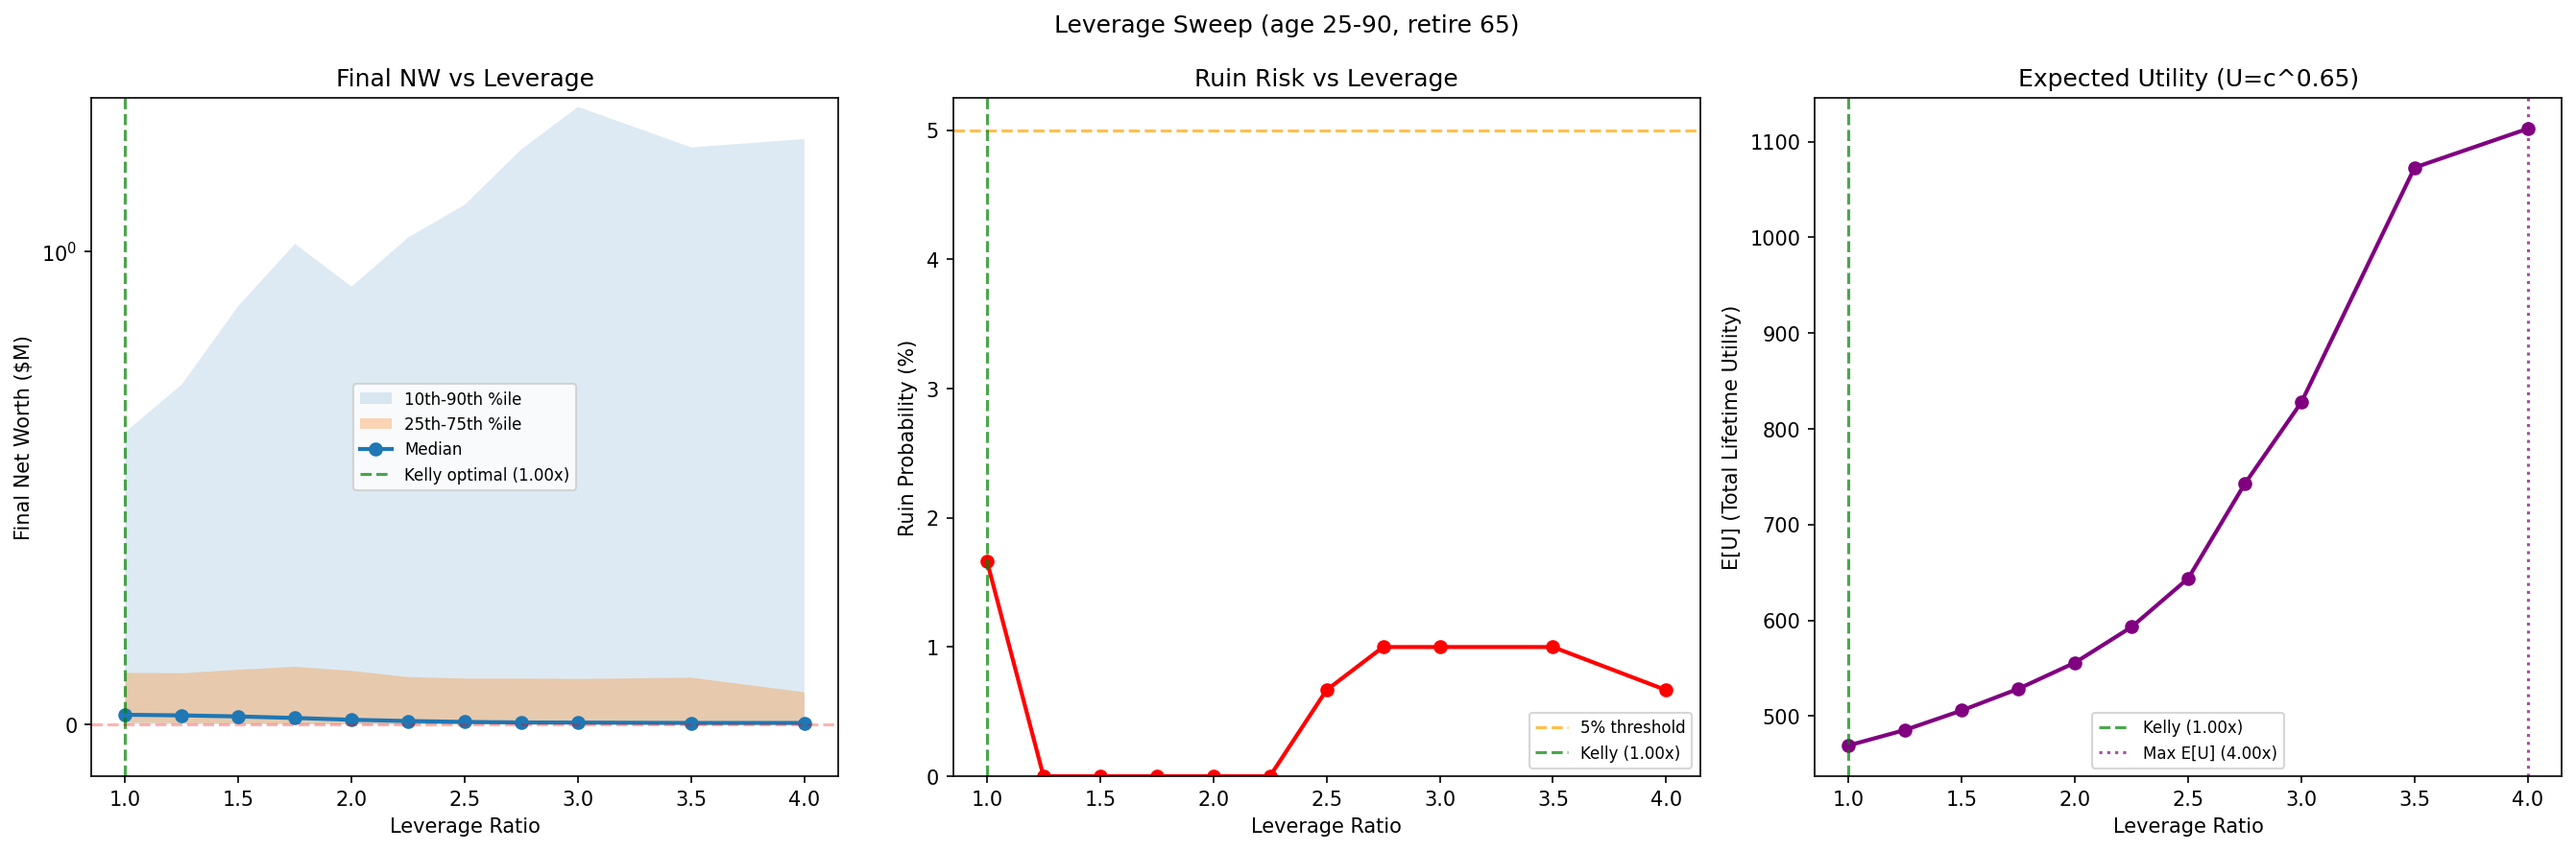
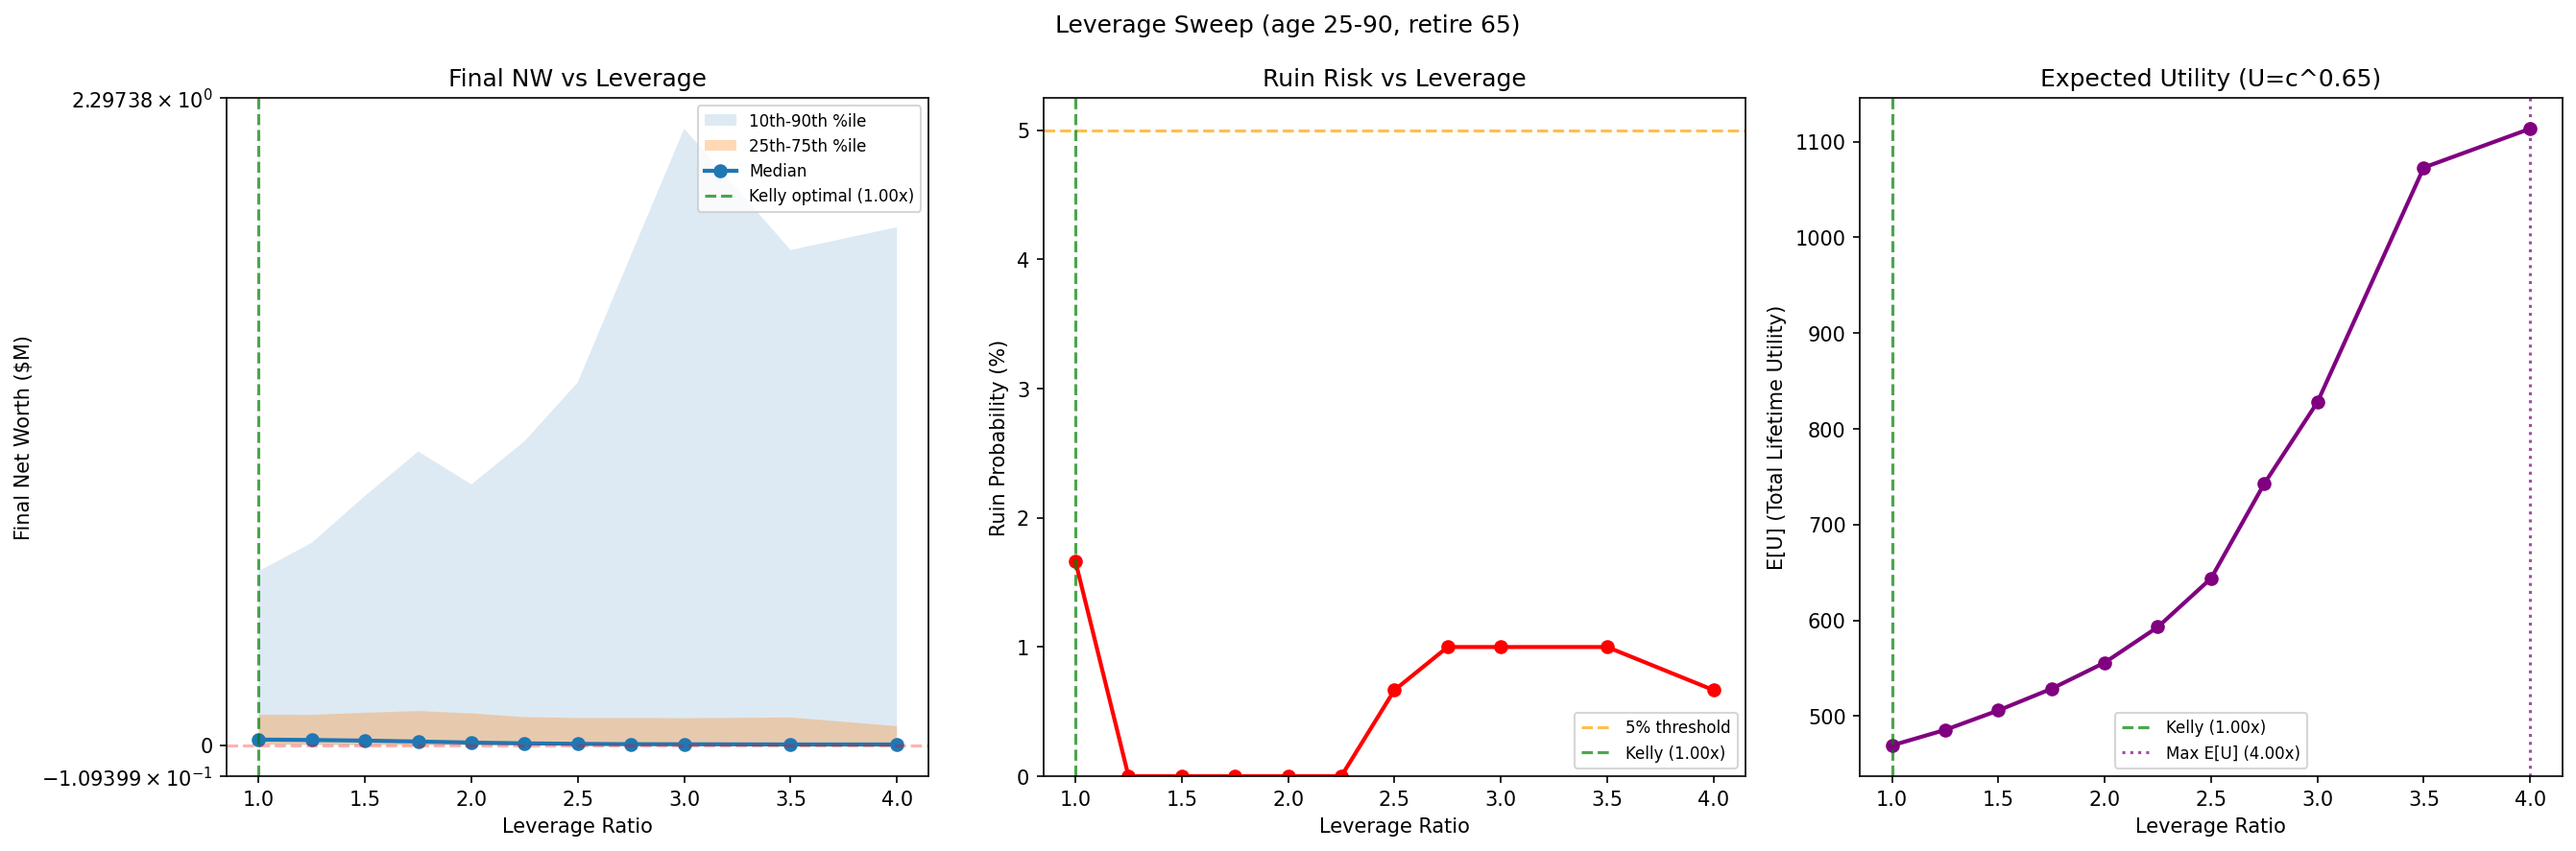
Standardize all log-scaled axes to symlog with linthresh=100
All chart axes that previously used log or symlog with varying
linthresh values now use symlog(linthresh=100) — linear for
|value| < 100, logarithmic beyond. Applies to leverage sweep NW,
Monte Carlo NW/spending, stress test NW, and 2D sweep axes.

https://claude.ai/code/session_01236Zney1KiVQQhg5QPK66n

diff --git a/generate_advice.py b/generate_advice.py
@@ -143,7 +143,7 @@ ax1.axhline(y=0, color='r', linestyle='--', alpha=0.3)
 ax1.set_xlabel('Leverage Ratio')
 ax1.set_ylabel('Final Net Worth ($M)')
 ax1.set_title('Final NW vs Leverage')
-ax1.set_yscale('symlog', linthresh=1)
+ax1.set_yscale('symlog', linthresh=100)
 ax1.legend(fontsize=8)
 
 ax2.plot(levs, [r * 100 for r in lev_results['ruin_pct']], 'o-',
@@ -354,7 +354,7 @@ for col, (name, data) in enumerate(show_portfolios.items()):
     ax_nw.fill_between(ages, data['p25'], data['p75'], alpha=0.3, label='25th-75th %ile')
     ax_nw.plot(ages, data['median'], linewidth=2, label='Median')
     ax_nw.axvline(x=opt_retire, color='r', linestyle='--', alpha=0.5)
-    ax_nw.set_yscale('symlog', linthresh=0.1)
+    ax_nw.set_yscale('symlog', linthresh=100)
     ax_nw.set_title(f'{name}\nE[U]={fmt_u(u)}  (CE={format_money(ce)}/yr)')
     ax_nw.legend(fontsize=7)
     if col == 0:
@@ -370,7 +370,7 @@ for col, (name, data) in enumerate(show_portfolios.items()):
     ax_sp.axvline(x=opt_retire, color='r', linestyle='--', alpha=0.5)
     ax_sp.axhline(y=config.spending_floor, color='gray', linestyle=':', alpha=0.5,
                    label=f'Floor ${config.spending_floor:.0f}k')
-    ax_sp.set_yscale('symlog', linthresh=10)
+    ax_sp.set_yscale('symlog', linthresh=100)
     ax_sp.set_xlabel('Age')
     ax_sp.legend(fontsize=7)
     if col == 0:
@@ -416,7 +416,7 @@ for col, (name, data) in enumerate(stress_show.items()):
     ax_nw.fill_between(ages, data['p25'], data['p75'], alpha=0.3, label='25th-75th %ile')
     ax_nw.plot(ages, data['median'], linewidth=2, label='Median')
     ax_nw.axvline(x=opt_retire, color='r', linestyle='--', alpha=0.5)
-    ax_nw.set_yscale('symlog', linthresh=0.1)
+    ax_nw.set_yscale('symlog', linthresh=100)
     ax_nw.set_title(f'{name}\nE[U]={fmt_u(u)}  (CE={format_money(ce)}/yr)')
     ax_nw.legend(fontsize=7)
     if col == 0:

diff --git a/plotting.py b/plotting.py
@@ -95,7 +95,7 @@ def plot_leverage_sweep(sweep: Dict[str, list], config: SimulationConfig) -> Non
     ax1.set_xlabel('Leverage Ratio')
     ax1.set_ylabel('Final Net Worth ($M)')
     ax1.set_title('Final NW vs Leverage')
-    ax1.set_yscale('symlog', linthresh=1)
+    ax1.set_yscale('symlog', linthresh=100)
     ax1.legend(fontsize=8)
 
     ax2.plot(levs, [r * 100 for r in sweep['ruin_pct']], 'o-',
@@ -208,9 +208,9 @@ def plot_2d_sweep(sweep: Dict, config: SimulationConfig) -> None:
     fig, ax = plt.subplots(figsize=(10, 8))
 
     if sweep['param1'] in LOG_SCALE_PARAMS:
-        ax.set_yscale('log')
+        ax.set_yscale('symlog', linthresh=100)
     if sweep['param2'] in LOG_SCALE_PARAMS:
-        ax.set_xscale('log')
+        ax.set_xscale('symlog', linthresh=100)
 
     levels = 20
     cmap = 'RdYlGn_r' if is_ruin else 'RdYlGn'
